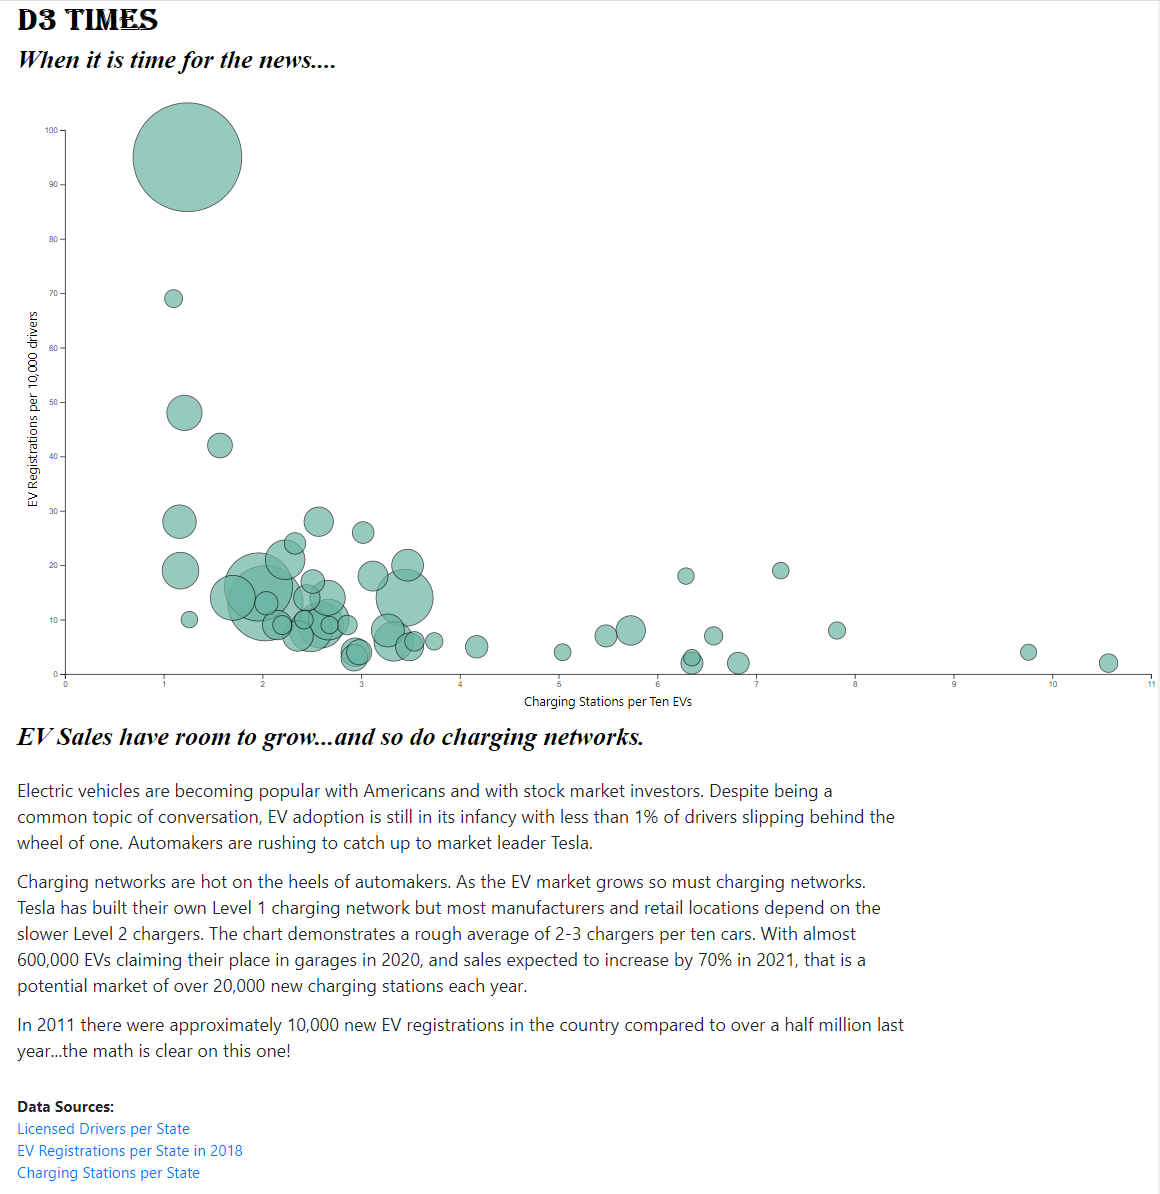
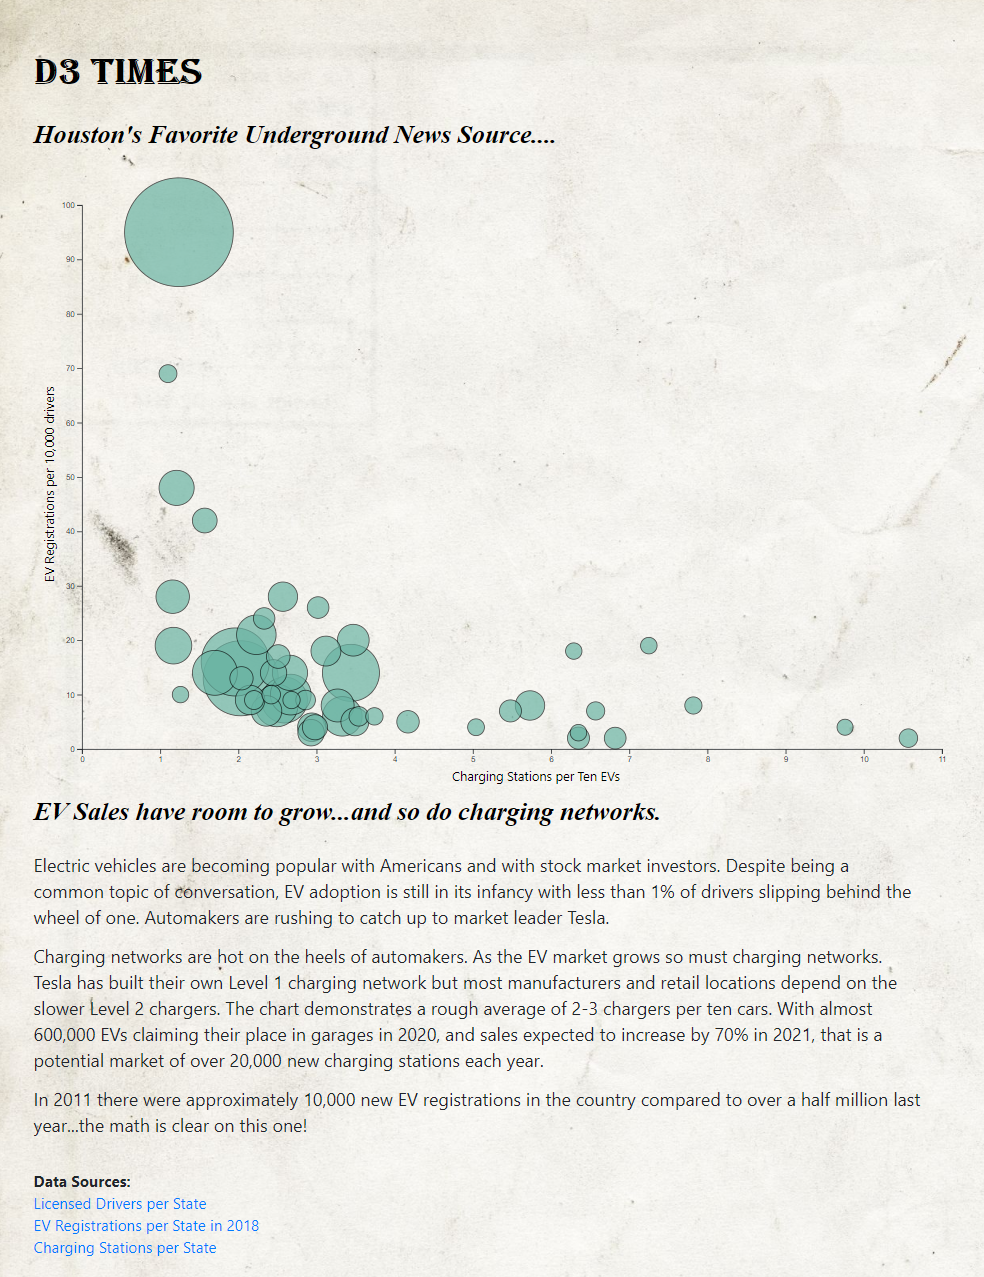
Add files via upload

diff --git a/assets/css/style.css b/assets/css/style.css
@@ -11,7 +11,7 @@ html {
 
 body {
   /* Padding bottom by footer height */
-  padding-top: 25px;
+  padding-top: 75px;
   padding-bottom: 80px;
   background-image: url("../Images/background.jpg");
   background-color: rgb(238, 236, 236); /* Used if image not available */
@@ -26,6 +26,7 @@ h1 {
   color: black;
   font-family: 'algerian';
   font-weight: bold;
+  font-size: 300%
 }
 
 h2 {
@@ -33,6 +34,7 @@ h2 {
   font-family: 'sans-serif';
   font-weight: bold;
   font-style: italic;
+  
 }
 
 #footer {

diff --git a/index.html b/index.html
@@ -15,12 +15,12 @@
   <div class="container">
     <div class="row">
       <div class="col-xs-12 col-md-12">
-        <h1>D3 Times</h1>
+        <h1>D3 Times</h1><br>
         <h2>Houston's Favorite Underground News Source....</h2>
       </div>
     </div>
     <div class="row">
-      <div class="col-xs-12  col-md-9">
+      <div class="col-xs-12  col-lg-9">
         <div id="scatter">
           <!-- We append our chart here. -->
         </div>

diff --git a/assets/js/app.js b/assets/js/app.js
@@ -52,7 +52,7 @@ function loadChart() {
         // Declare scales
         let xScale = d3.scaleLinear()
             .domain([0, 11])
-            .range([0, chartWidth]);
+            .range([0, chartWidth - margin.right]);
 
         // Configure a linear scale with a range between the chartHeight and 0
         let yScale = d3.scaleLinear()
